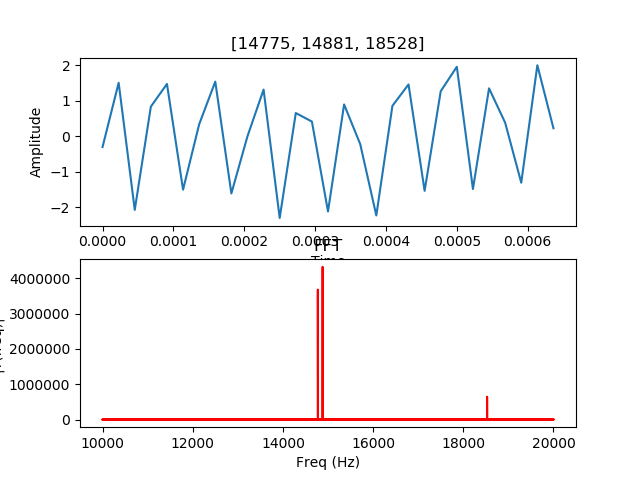
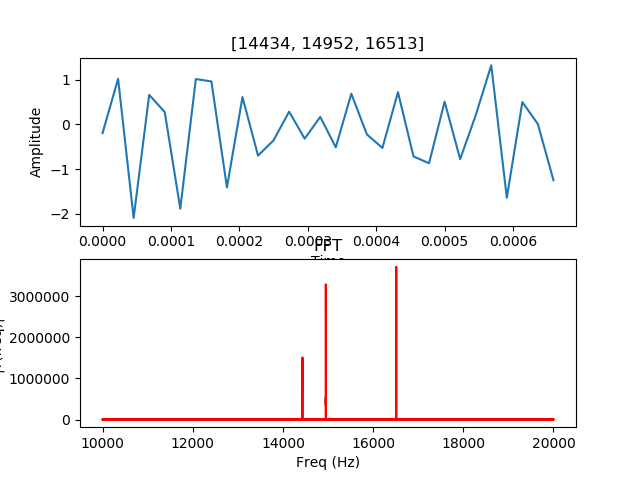
scaling F pics works

diff --git a/src/audio.py b/src/audio.py
@@ -2,6 +2,7 @@
 import numpy as np
 import matplotlib.pyplot as plt
 from scipy import signal
+import cv2
 
 def plot_both(x, y, title):
     t, freq = x
@@ -60,6 +61,7 @@ fourier = np.fft.fft(channel_1)
 w = np.linspace(0, rate, len(fourier))
 
 # First half is the real component, second half is imaginary
+square = 2**10 ## **10 = 1024
 fourier_to_plot = fourier[0:len(fourier)//2]
 w = w[0:len(fourier)//2]
 f_scale = len(fourier)/rate
@@ -68,12 +70,45 @@ w_range = (f_scale*f_range).astype(int)
 jump=t.size//400
 x_plot = [t[:index],w[w_range[0]:w_range[1]]]
 y_plot = [sig[:index],fourier_to_plot[w_range[0]:w_range[1]]]
+Y_np = abs(fourier_to_plot[w_range[0]:w_range[1]])
+Y_np = Y_np/Y_np.max()*square
+Y_np = np.asarray(Y_np)
+window_size = Y_np.size//square
+drop = Y_np.size%window_size
+Z = Y_np.reshape(Y_np.size,1)[:-drop]
+
+# Y_np_square = Y_np[:-drop].reshape(-1,window_size).mean(1)
+# Y_np_square = ((Y_np_square/Y_np_square.max())*square).astype(int)
+
+# General formula for taking the average of r rows for a 2D array a with c columns:
+def get_small_pic(a, r, c):
+    return a.transpose().reshape(-1,r).sum(1).reshape(c,-1).transpose()
+
+Zpic = get_small_pic(Z,window_size,1)
+Zpic = Zpic - Zpic.min()
+Zpic = (Zpic/Zpic.max())*square
+Zpic = Zpic.astype(int)
+x_np_square = np.linspace(f_range[0], f_range[1], square).astype(int)
+h = Zpic#Y_np_square
+pic = np.zeros((square,1))
+
+for x in Zpic.ravel():
+    each = np.hstack((np.zeros((square-x)), np.ones((x)))).reshape(square,1)
+    pic = np.hstack((pic,each))
+
+
+
+# zero = np.zeros((square - h))
+# Z = np.hstack((one,zero))
+# ZZ = np.hstack((np.ones((h)), np.zeros((square-h))))
+x_np_plot = [t[:index],x_np_square]
+y_np_plot = [sig[:index],Zpic.ravel()]
+
 title=[f'{sorted(fs)}','FFT']
-plot_both(x_plot, y_plot, title)
+plot_both(x_np_plot, y_np_plot, title)
 rookie_plot=f'../figs/rookie_{waves}.png'
-plt.savefig(rookie_plot)
-#  plt.show()
-square = 2**10 ## **10 = 1024
+# plt.savefig(rookie_plot)
+plt.show()
 sig_pic = sig[:index]
 sig_pic += abs(sig_pic.min())
 sig_pic = square*(sig_pic//(sig_pic.max()))
